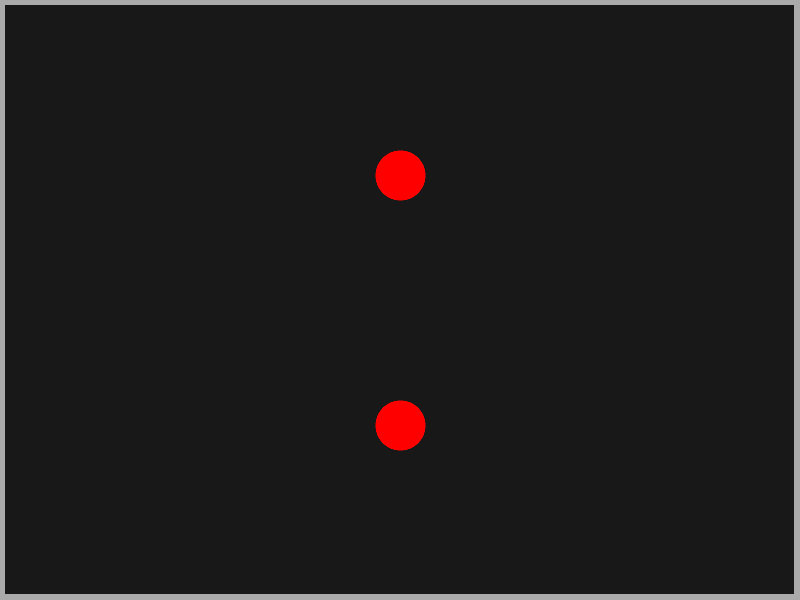
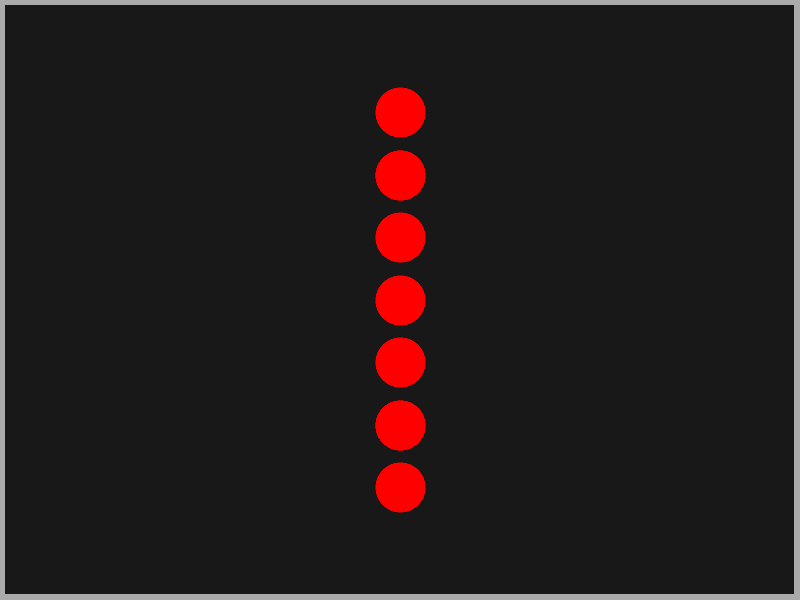
small break

Changed region(s): [[0.4688, 0.36, 0.5312, 0.66], [0.4688, 0.75, 0.5312, 0.87], [0.4688, 0.15, 0.5312, 0.24]]

diff --git a/framework/dump/dump_nn.c b/framework/dump/dump_nn.c
@@ -12,8 +12,9 @@ uint32_t img_pixels[IMG_WIDTH*IMG_HEIGHT];
 
 int main(void)
 {
-    size_t arch[] = {2, 2, 1};
-    NN nn = nn_alloc(arch, ARRAY_LEN(arch));
+    size_t arch[] = {4, 4, 2, 1};
+    size_t arch_count = ARRAY_LEN(arch);
+    NN nn = nn_alloc(arch, arch_count);
     nn_rand(nn, 0, 1);
     NN_PRINT(nn);
 
@@ -22,18 +23,26 @@ int main(void)
     Olivec_Canvas img = olivec_canvas(img_pixels, IMG_WIDTH, IMG_HEIGHT, IMG_WIDTH);
     olivec_fill(img, background_color);
 
-    size_t layer_count = arch[0];
     int neuron_radius = 25;
-    int layer_border_pad = 50;
-    int layer_height = img.height - 2 * layer_border_pad;
-    int layer_vpad = layer_height/layer_count;
-    int layer_x = img.width/2;
-    int layer_y = img.height/2 - layer_height/2;
-    for (size_t i = 0; i < layer_count; ++i) {
-        int cx = layer_x;
-        int cy = layer_y + i * layer_vpad + layer_vpad/2 ;
-        olivec_circle(img, cx, cy, neuron_radius, neuron_color);
+    int layer_border_vpad = 50;
+    int layer_border_hpad = 50;
+    int nn_width = img.width - 2*layer_border_hpad;
+    int layer_hpad = img.width/2 - nn_width/2;
+
+    for (size_t j = 0; j < arch_count; ++j) {
+        size_t layer_count = arch[j];
+        int layer_height = img.height - 2 * layer_border_vpad;
+        int layer_vpad = layer_height/layer_count;
+        int layer_x = img.width/2;
+        int layer_y = img.height/2 - layer_height/2;
+
+        for (size_t i = 0; i < layer_count; ++i) {
+            int cx = layer_x;
+            int cy = layer_y + i * layer_vpad + layer_vpad/2 ;
+            olivec_circle(img, cx, cy, neuron_radius, neuron_color);
+        }
     }
+
 
     uint32_t frame_thicc = 10;
     uint32_t frame_color = 0xFFAAAAAA;
